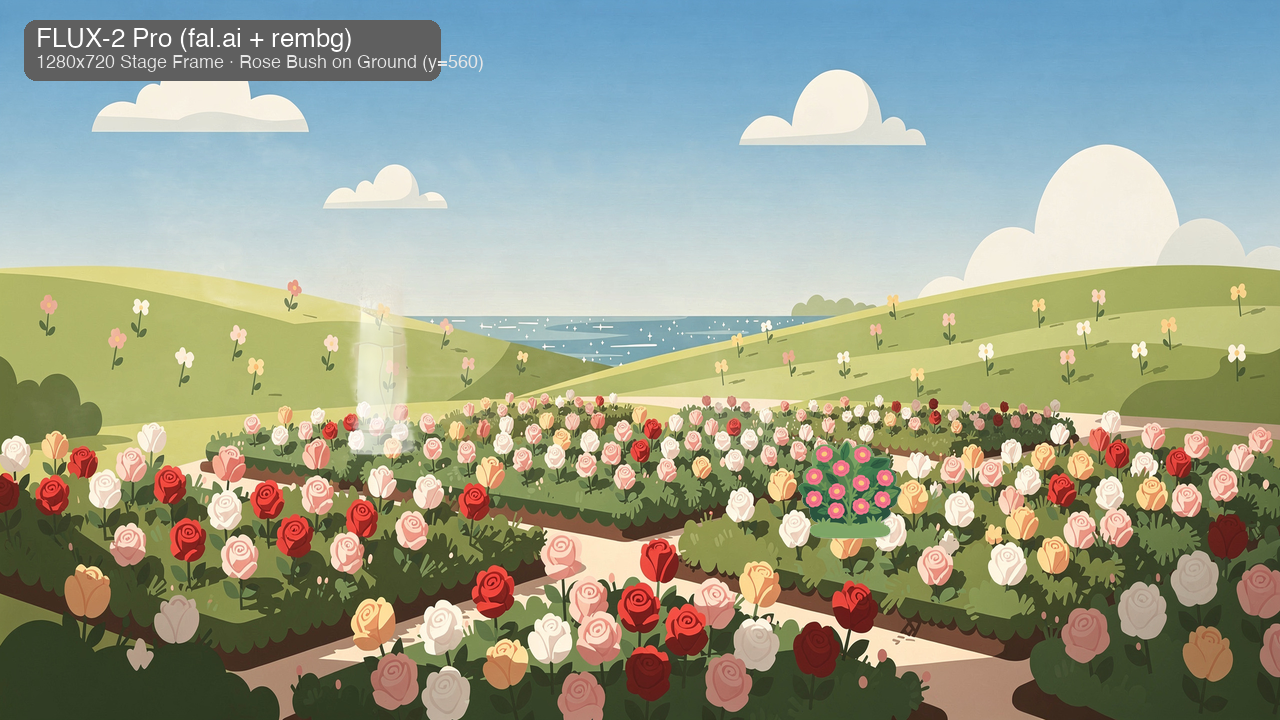
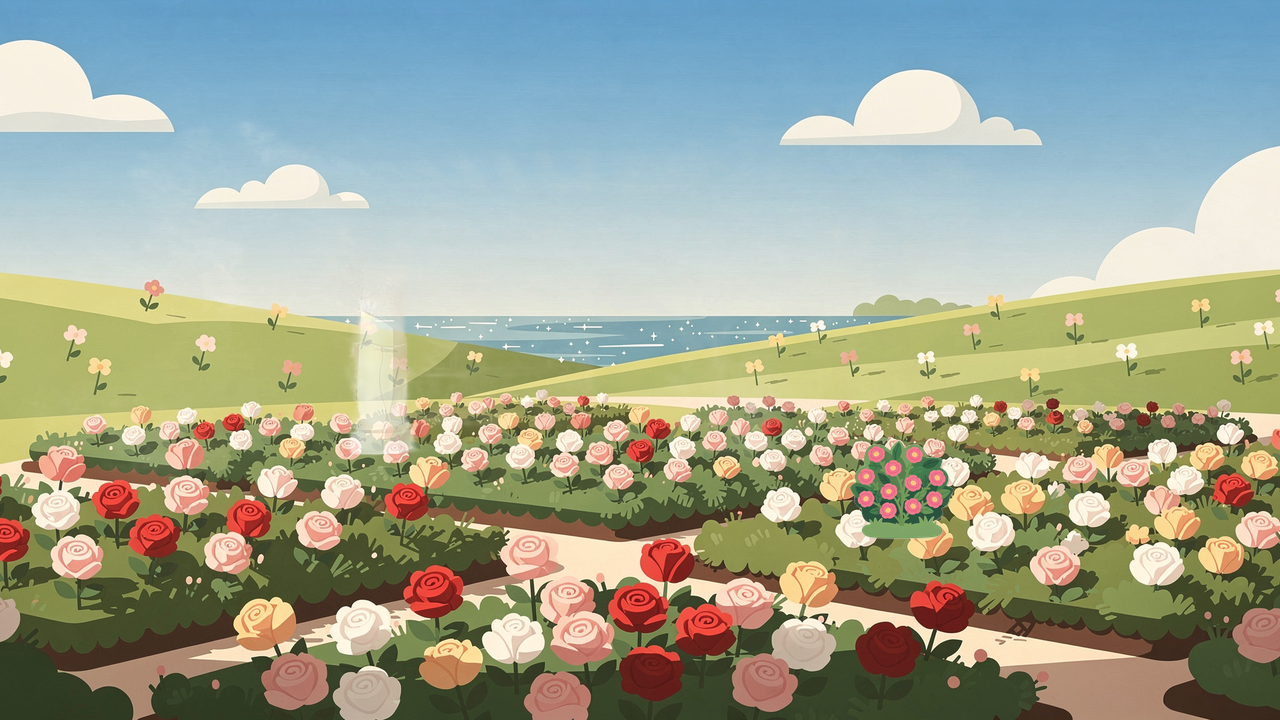
Harmonize bakeoff provenance costs, aspect ratio framing, and contact sheet

diff --git a/tools/media-prepare/src/bakeoff.ts b/tools/media-prepare/src/bakeoff.ts
@@ -62,7 +62,7 @@ export function calculateFramePlacements(assets: EntrantAssets): FramePlacements
   const archHeight = Math.round(frameWidth * archRatio);
   const archCluster: ElementPlacement = {
     x: 0,
-    y: Math.max(0, STORYBOOK_GROUND_Y - archHeight),
+    y: Math.max(0, Math.min(STORYBOOK_GROUND_Y - archHeight + 40, frameHeight - archHeight)),
     width: frameWidth,
     height: archHeight,
   };
@@ -108,7 +108,7 @@ export function calculateContactSheetLayout(
   };
 }
 
-export type BakeoffRole = "arch-cluster" | "rose-bush" | "far-layer";
+export type BakeoffRole = "arch-cluster" | "rose-bush" | "far-layer" | "style-reference";
 
 export interface BakeoffGenerationParams {
   provider: string;

diff --git a/tools/media-prepare/scripts/composite-bakeoff.py b/tools/media-prepare/scripts/composite-bakeoff.py
@@ -1,7 +1,8 @@
 import os
-from PIL import Image, ImageDraw, ImageFont
+from PIL import Image
 
-DIR = "/Users/jacob/GitHub/JacobStephens2/princess-rosie/shared/edition/source-media/garden/bake-off"
+REPO_ROOT = os.path.abspath(os.path.join(os.path.dirname(__file__), "..", "..", ".."))
+DIR = os.path.join(REPO_ROOT, "shared", "edition", "source-media", "garden", "bake-off")
 STAGE_WIDTH = 1280
 STAGE_HEIGHT = 720
 GROUND_Y = 560
@@ -33,25 +34,23 @@ entrants = [
     }
 ]
 
-def load_font(size):
-    try:
-        return ImageFont.truetype("/System/Library/Fonts/Helvetica.ttc", size)
-    except Exception:
-        return ImageFont.load_default()
-
-title_font = load_font(26)
-subtitle_font = load_font(18)
-
 frames = []
 
 for entrant in entrants:
     # 1. Base frame 1280x720
     frame = Image.new("RGBA", (STAGE_WIDTH, STAGE_HEIGHT), (255, 255, 255, 255))
     
-    # 2. Far layer fitted to cover 1280x720
+    # 2. Far layer fitted to cover 1280x720 maintaining aspect ratio (center-cropped slice of panorama)
     far_img = Image.open(entrant["far"]).convert("RGBA")
-    far_resized = far_img.resize((STAGE_WIDTH, STAGE_HEIGHT), Image.Resampling.LANCZOS)
-    frame.paste(far_resized, (0, 0))
+    far_w, far_h = far_img.size
+    scale = max(STAGE_WIDTH / far_w, STAGE_HEIGHT / far_h)
+    scaled_w = int(round(far_w * scale))
+    scaled_h = int(round(far_h * scale))
+    far_resized = far_img.resize((scaled_w, scaled_h), Image.Resampling.LANCZOS)
+    crop_x = (scaled_w - STAGE_WIDTH) // 2
+    crop_y = (scaled_h - STAGE_HEIGHT) // 2
+    far_cropped = far_resized.crop((crop_x, crop_y, crop_x + STAGE_WIDTH, crop_y + STAGE_HEIGHT))
+    frame.paste(far_cropped, (0, 0))
 
     # 3. Arch cluster Set Piece scaled to Stage width (1280), keeping aspect ratio
     arch_img = Image.open(entrant["arch"]).convert("RGBA")
@@ -70,18 +69,11 @@ for entrant in entrants:
     bush_target_w = int(round(bush_target_h * (bush_w / bush_h)))
     bush_resized = bush_img.resize((bush_target_w, bush_target_h), Image.Resampling.LANCZOS)
     # Bottom of bush sits exactly on Storybook Ground (y = 560)
-    bush_x = 780
+    bush_x = int(round(STAGE_WIDTH * 0.65))
     bush_y = GROUND_Y - bush_target_h
     frame.paste(bush_resized, (bush_x, bush_y), mask=bush_resized)
 
-    # 5. Add informative overlay badge
-    draw = ImageDraw.Draw(frame)
-    # Subtle translucent label bar in top-left
-    draw.rounded_rectangle([(24, 20), (440, 80)], radius=12, fill=(0, 0, 0, 160))
-    draw.text((36, 26), entrant["label"], font=title_font, fill=(255, 255, 255, 255))
-    draw.text((36, 54), "1280x720 Stage Frame · Rose Bush on Ground (y=560)", font=subtitle_font, fill=(230, 230, 230, 255))
-
-    # Save individual composite frame
+    # Save individual composite frame (unobscured Stage view)
     frame.save(entrant["composite"], "PNG")
     print(f"Saved {entrant['composite']}")
     frames.append(frame)

diff --git a/tools/media-prepare/scripts/generate-provenance.py b/tools/media-prepare/scripts/generate-provenance.py
@@ -2,9 +2,12 @@ import os
 import hashlib
 import json
 
-DIR = "/Users/jacob/GitHub/JacobStephens2/princess-rosie/shared/edition/source-media/garden/bake-off"
+REPO_ROOT = os.path.abspath(os.path.join(os.path.dirname(__file__), "..", "..", ".."))
+DIR = os.path.join(REPO_ROOT, "shared", "edition", "source-media", "garden", "bake-off")
 
 def get_sha256(path: str) -> str:
+    if not os.path.exists(path):
+        return ""
     h = hashlib.sha256()
     with open(path, "rb") as f:
         while chunk := f.read(8192):
@@ -61,6 +64,21 @@ generations = [
     },
     # Recraft
     {
+        "id": "bake-off.recraft.style-reference",
+        "provider": "Recraft (Recraft Inc.)",
+        "model": "recraft-style",
+        "role": "style-reference",
+        "size": "reference-style",
+        "prompt": "Style reference extraction from approved Rose Garden painting (source-media/flight/rose-garden-background.png) creating style ID aacf4fbf-775a-4553-80ad-56aa783669ff.",
+        "costUsd": 0.005,
+        "outputPath": "source-media/garden/bake-off/recraft-style-reference.json",
+        "sha256": get_sha256(os.path.join(REPO_ROOT, "shared", "edition", "source-media", "flight", "rose-garden-background.png")),
+        "selection": {
+            "status": "candidate",
+            "reason": "Style model created from reference painting for issue #131 provider bake-off."
+        }
+    },
+    {
         "id": "bake-off.recraft.arch-cluster",
         "provider": "Recraft (Recraft Inc.)",
         "model": "recraftv4_styles + removeBackground",
@@ -100,7 +118,7 @@ generations = [
         "size": "1344x768 (16:9)",
         "prompt": "Spacious character-free panoramic vista of Rosalia's Rose Garden: sunny sapphire sky with soft gentle clouds, distant green rolling hills dotted with wildflowers, distant sparkling blue sea, and warm sunlit atmosphere. Flat modern children's picture-book illustration style, no characters, no text.",
         "referenceStyleId": "aacf4fbf-775a-4553-80ad-56aa783669ff",
-        "costUsd": 0.040,
+        "costUsd": 0.035,
         "outputPath": "source-media/garden/bake-off/recraft-far-layer.png",
         "sha256": get_sha256(os.path.join(DIR, "recraft-far-layer.png")),
         "selection": {
